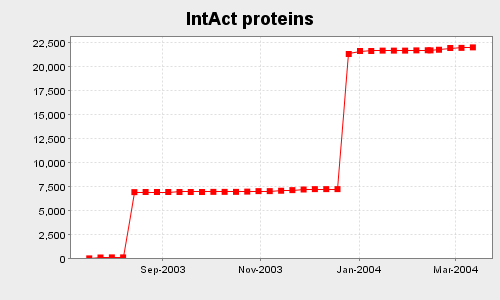
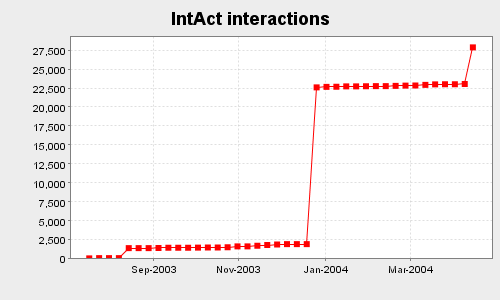
update for the may 2004 release

diff --git a/trunk/intactCore/application/intact/doc/misc/statistics/index.html b/trunk/intactCore/application/intact/doc/misc/statistics/index.html
@@ -92,9 +92,9 @@
                   <td height="0" valign="top"><!--
         Comment for developpers.
         This is the Database from which we extracted the data.
-        Database: zpro
+        Database: d002
 -->
-IntAct database contents as of <b>27 Mar 2004</b>. <br>
+IntAct database contents as of <b>29 Apr 2004</b>. <br>
                   </td>
                 </tr>
                 <tr>
@@ -111,7 +111,7 @@ IntAct database contents as of <b>27 Mar 2004</b>. <br>
                         <td class="tableCellAlignRight" align="left"
  valign="top" width="22%">Proteins</td>
                         <td class="tableCellAlignRight" align="left"
- valign="top" width="8%">21984</td>
+ valign="top" width="8%">25631</td>
                         <td class="tableCell" align="left" valign="top"
  width="70%">Number of proteins in the database</td>
                       </tr>
@@ -119,7 +119,7 @@ IntAct database contents as of <b>27 Mar 2004</b>. <br>
                         <td class="tableCellAlignRight" align="left"
  valign="top" width="22%">Interactions</td>
                         <td class="tableCellAlignRight" align="left"
- valign="top" width="8%">22927</td>
+ valign="top" width="8%">27880</td>
                         <td class="tableCell" align="left" valign="top"
  width="70%">Number of binary interactions and complexes</td>
                       </tr>
@@ -127,7 +127,7 @@ IntAct database contents as of <b>27 Mar 2004</b>. <br>
                         <td class="tableCellAlignRight" align="left"
  valign="top" width="22%">Binary interactions</td>
                         <td class="tableCellAlignRight" align="left"
- valign="top" width="8%">30083</td>
+ valign="top" width="8%">35068</td>
                         <td class="tableCell" align="left" valign="top"
  width="70%">Number of binary interactions, n-ary interactions expanded
 according to the "spoke" model</td>
@@ -136,7 +136,7 @@ according to the "spoke" model</td>
                         <td class="tableCellAlignRight" align="left"
  valign="top" width="22%">Experiments</td>
                         <td class="tableCellAlignRight" align="left"
- valign="top" width="8%">413</td>
+ valign="top" width="8%">457</td>
                         <td class="tableCell" align="left" valign="top"
  width="70%">Distinct experiments</td>
                       </tr>
@@ -144,7 +144,7 @@ according to the "spoke" model</td>
                         <td class="tableCellAlignRight" align="left"
  valign="top" width="22%">Terms</td>
                         <td class="tableCellAlignRight" align="left"
- valign="top" width="8%">185</td>
+ valign="top" width="8%">219</td>
                         <td class="tableCell" align="left" valign="top"
  width="70%">Controlled vocabulary terms</td>
                       </tr>
@@ -165,38 +165,38 @@ according to the "spoke" model</td>
                     <tbody>
                       <tr>
                         <td height="0" valign="top"> <map
- name="jfreechart-46703.png">
-                        </map>
-                        <img src="index_files/DisplayChart_002.png"
- usemap="#jfreechart-46703.png" border="0" height="300" width="500"> </td>
-                      </tr>
-                      <tr>
-                        <td height="0" valign="top"> <map
- name="jfreechart-46704.png">
-                        </map>
-                        <img src="index_files/DisplayChart_004.png"
- usemap="#jfreechart-46704.png" border="0" height="300" width="500"> </td>
-                      </tr>
-                      <tr>
-                        <td height="0" valign="top"> <map
- name="jfreechart-46705.png">
-                        </map>
-                        <img src="index_files/DisplayChart_003.png"
- usemap="#jfreechart-46705.png" border="0" height="300" width="500"> </td>
-                      </tr>
-                      <tr>
-                        <td height="0" valign="top"> <map
- name="jfreechart-46706.png">
+ name="jfreechart-27092.png">
                         </map>
                         <img src="index_files/DisplayChart_005.png"
- usemap="#jfreechart-46706.png" border="0" height="300" width="500"> </td>
+ usemap="#jfreechart-27092.png" border="0" height="300" width="500"> </td>
                       </tr>
                       <tr>
                         <td height="0" valign="top"> <map
- name="jfreechart-46707.png">
+ name="jfreechart-27093.png">
+                        </map>
+                        <img src="index_files/DisplayChart_002.png"
+ usemap="#jfreechart-27093.png" border="0" height="300" width="500"> </td>
+                      </tr>
+                      <tr>
+                        <td height="0" valign="top"> <map
+ name="jfreechart-27094.png">
+                        </map>
+                        <img src="index_files/DisplayChart_003.png"
+ usemap="#jfreechart-27094.png" border="0" height="300" width="500"> </td>
+                      </tr>
+                      <tr>
+                        <td height="0" valign="top"> <map
+ name="jfreechart-27095.png">
                         </map>
                         <img src="index_files/DisplayChart.png"
- usemap="#jfreechart-46707.png" border="0" height="300" width="500"> </td>
+ usemap="#jfreechart-27095.png" border="0" height="300" width="500"> </td>
+                      </tr>
+                      <tr>
+                        <td height="0" valign="top"> <map
+ name="jfreechart-27096.png">
+                        </map>
+                        <img src="index_files/DisplayChart_004.png"
+ usemap="#jfreechart-27096.png" border="0" height="300" width="500"> </td>
                       </tr>
                     </tbody>
                   </table>
@@ -220,7 +220,7 @@ according to the "spoke" model</td>
                 <tr>
                   <td> Please send any questions or suggestions to <a
  href="mailto:intact-help@ebi.ac.uk">intact-help@ebi.ac.uk</a> <br>
-Last modified: <i>29-March-2004 03:48 PM by Samuel</i> </td>
+Last modified: <i>29-April-2004 04:12 PM by Samuel</i> </td>
                   <td class="tableCell"> <img
  src="index_files/struts-power.gif" align="right" border="0"> </td>
                 </tr>
